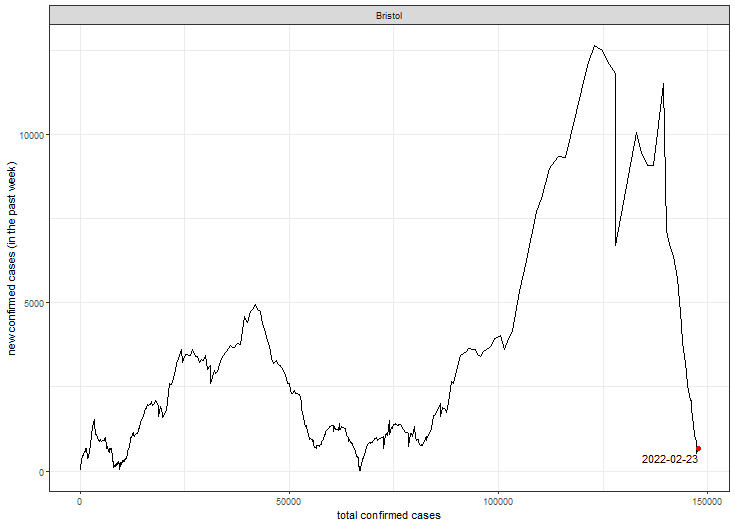
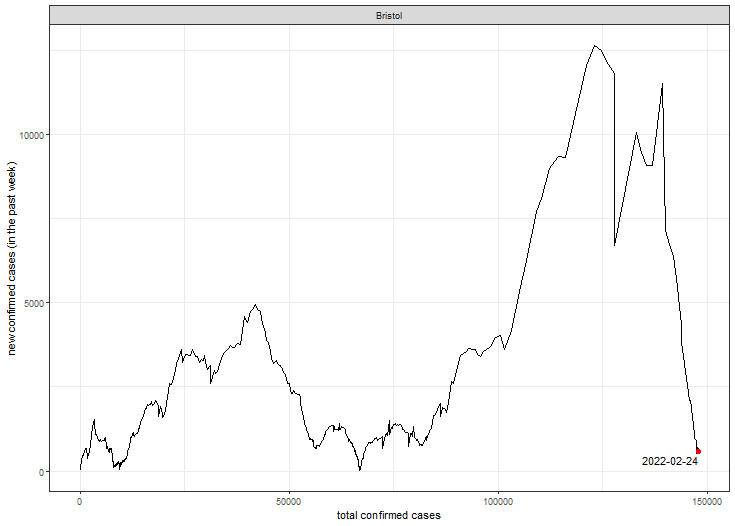
updated repo

Changed region(s): [[0.868, 0.8517, 0.9578, 0.8821], [0.898, 0.1825, 0.9279, 0.2129]]

diff --git a/README.md b/README.md
@@ -1,4 +1,4 @@
-Trends in COVID-19 for counties in the U.S. state of Massachusetts (updated on 2022-02-24)
+Trends in COVID-19 for counties in the U.S. state of Massachusetts (updated on 2022-02-25)
 ==========================================================================================
 
 ![trends in covid-19 cases by county in the U.S. state of
